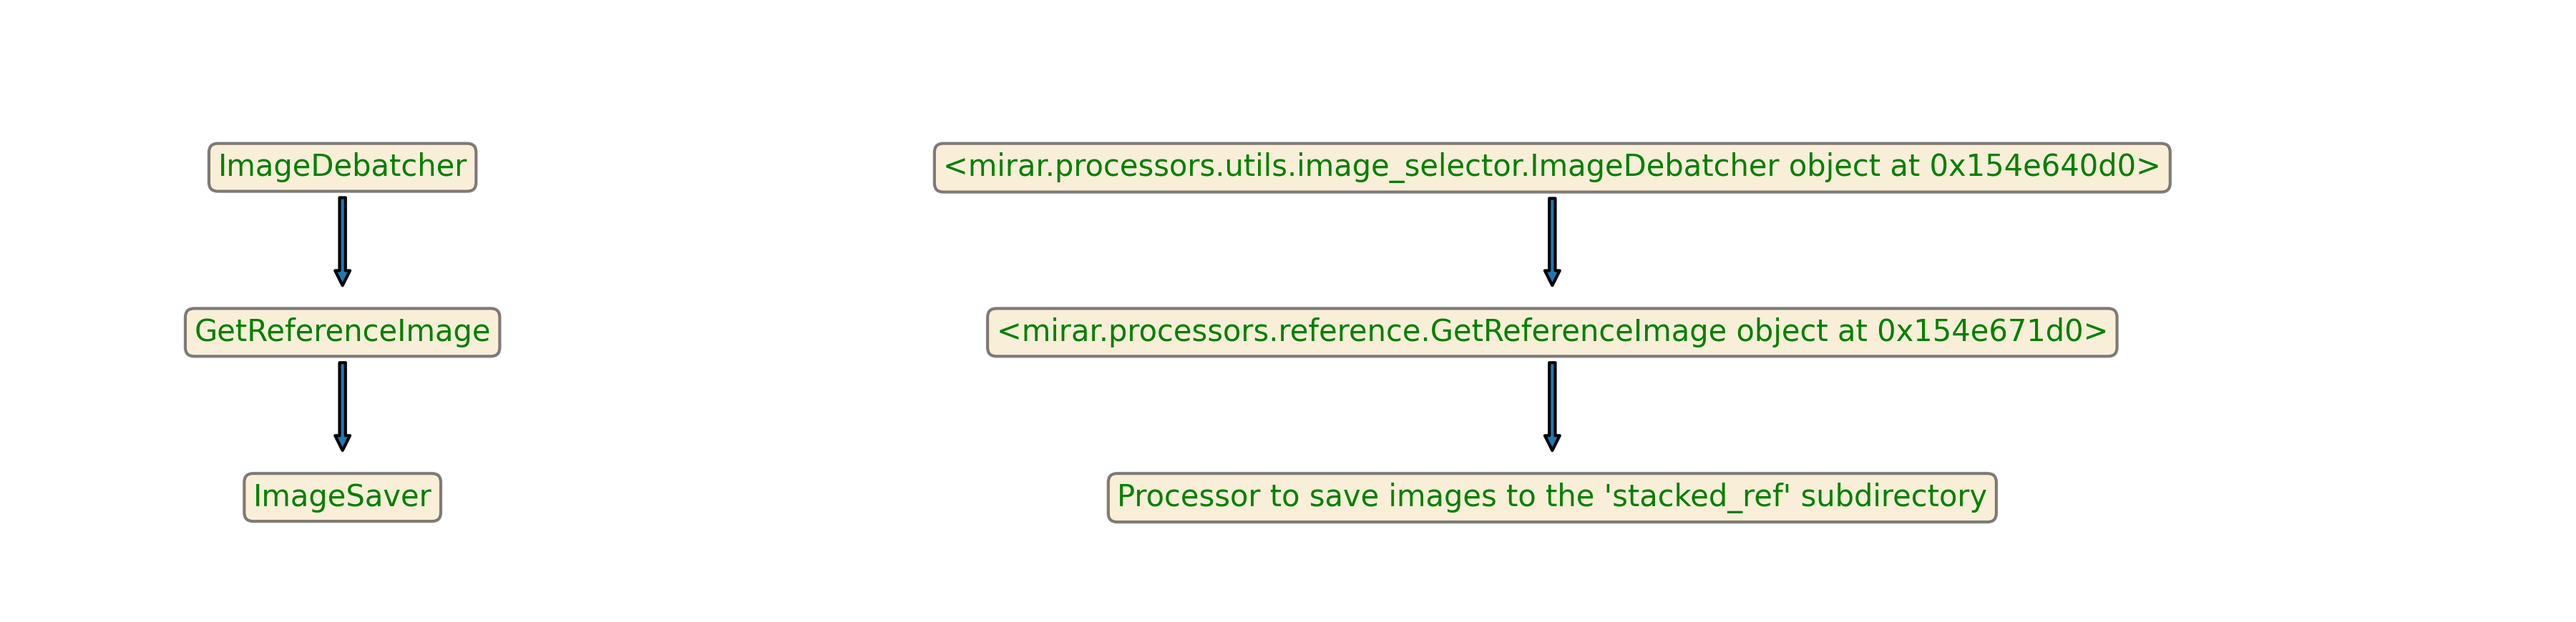
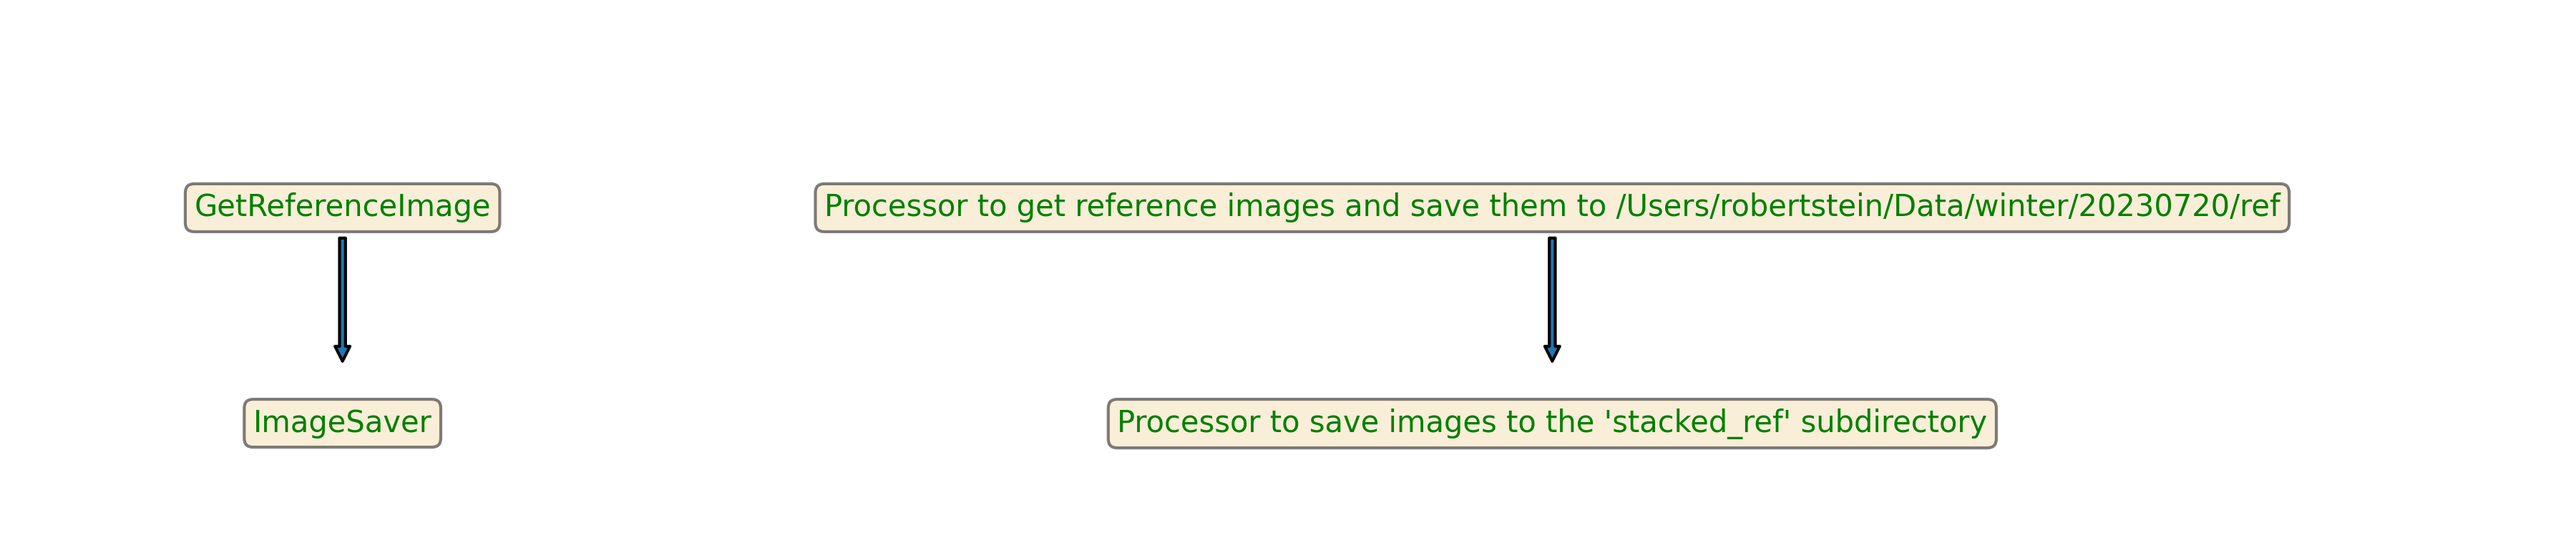
Update pipeline visualisation

diff --git a/mirar/processors/mask.py b/mirar/processors/mask.py
@@ -178,6 +178,12 @@ class MaskPixelsFromFunction(BaseMask):
         """
         return self.mask_function(image)
 
+    def __str__(self) -> str:
+        return (
+            f"Processor to mask pixels using the function "
+            f"'{self.mask_function.__name__}'"
+        )
+
 
 class MaskAboveThreshold(BaseMask):
     """
@@ -212,7 +218,7 @@ class MaskAboveThreshold(BaseMask):
             raise ValueError("Must specify either threshold or threshold_key, not both")
 
     def __str__(self) -> str:
-        return f"Processor to mask pixels above a threshold: {self.threshold}"
+        return f"Processor to mask pixels above a threshold '{self.threshold}'"
 
     def get_mask(self, image) -> np.ndarray:
         """
@@ -256,7 +262,7 @@ class MaskPixelsFromWCS(BaseMask):
             self.mask_file_key = None
 
     def __str__(self) -> str:
-        return "Processor to mask pixels using a  list of RA/Dec."
+        return "Processor to mask pixels using a list of RA/Dec coordinates."
 
     def get_mask(self, image) -> np.ndarray:
         """
@@ -315,6 +321,9 @@ class WriteMaskedCoordsToFile(BaseMask):
             only_write_mask=only_write_mask,
         )
 
+    def __str__(self) -> str:
+        return f"Processor to save image masks to the {self.output_dir} directory"
+
     def get_mask(self, image) -> np.ndarray:
         pixels_to_mask = np.zeros(image.get_data().shape, dtype=bool)
 
@@ -352,3 +361,6 @@ class MaskDatasecPixels(BaseMask):
         mask[:datasec_ymin, :] = 1.0
         mask[datasec_ymax:, :] = 1.0
         return mask.astype(bool)
+
+    def __str__(self) -> str:
+        return "Processor to mask pixels using a 'datasec' keyword in the header."

diff --git a/mirar/processors/sqldatabase/database_exporter.py b/mirar/processors/sqldatabase/database_exporter.py
@@ -33,7 +33,8 @@ class BaseDatabaseExporter(BaseDatabaseProcessor, ABC):
         return (
             f"Processor to save "
             f"{['candidates', 'images'][isinstance(self, BaseImageProcessor)]} "
-            f"to the '{self.db_table}' table of the '{self.db_name}' Postgres database."
+            f"to the '{self.db_table.__name__}' table of "
+            f"the '{self.db_name}' Postgres database."
         )
 
 

diff --git a/mirar/processors/csvlog.py b/mirar/processors/csvlog.py
@@ -43,7 +43,7 @@ class CSVLog(BaseImageProcessor):
     def __str__(self) -> str:
         return (
             f"Processor to create a CSV log summarising the image metadata, "
-            f"to {self.get_output_path()}."
+            f"with name '{self.get_output_path().name}'."
         )
 
     def get_log_name(self) -> str:

diff --git a/mirar/utils/pipeline_visualisation.py b/mirar/utils/pipeline_visualisation.py
@@ -113,6 +113,7 @@ def flowify(processor_list: list[BaseProcessor], output_path: Path):
     plt.axis("off")
 
     plt.savefig(output_path)
+    plt.close()
 
 
 def iterate_flowify(
